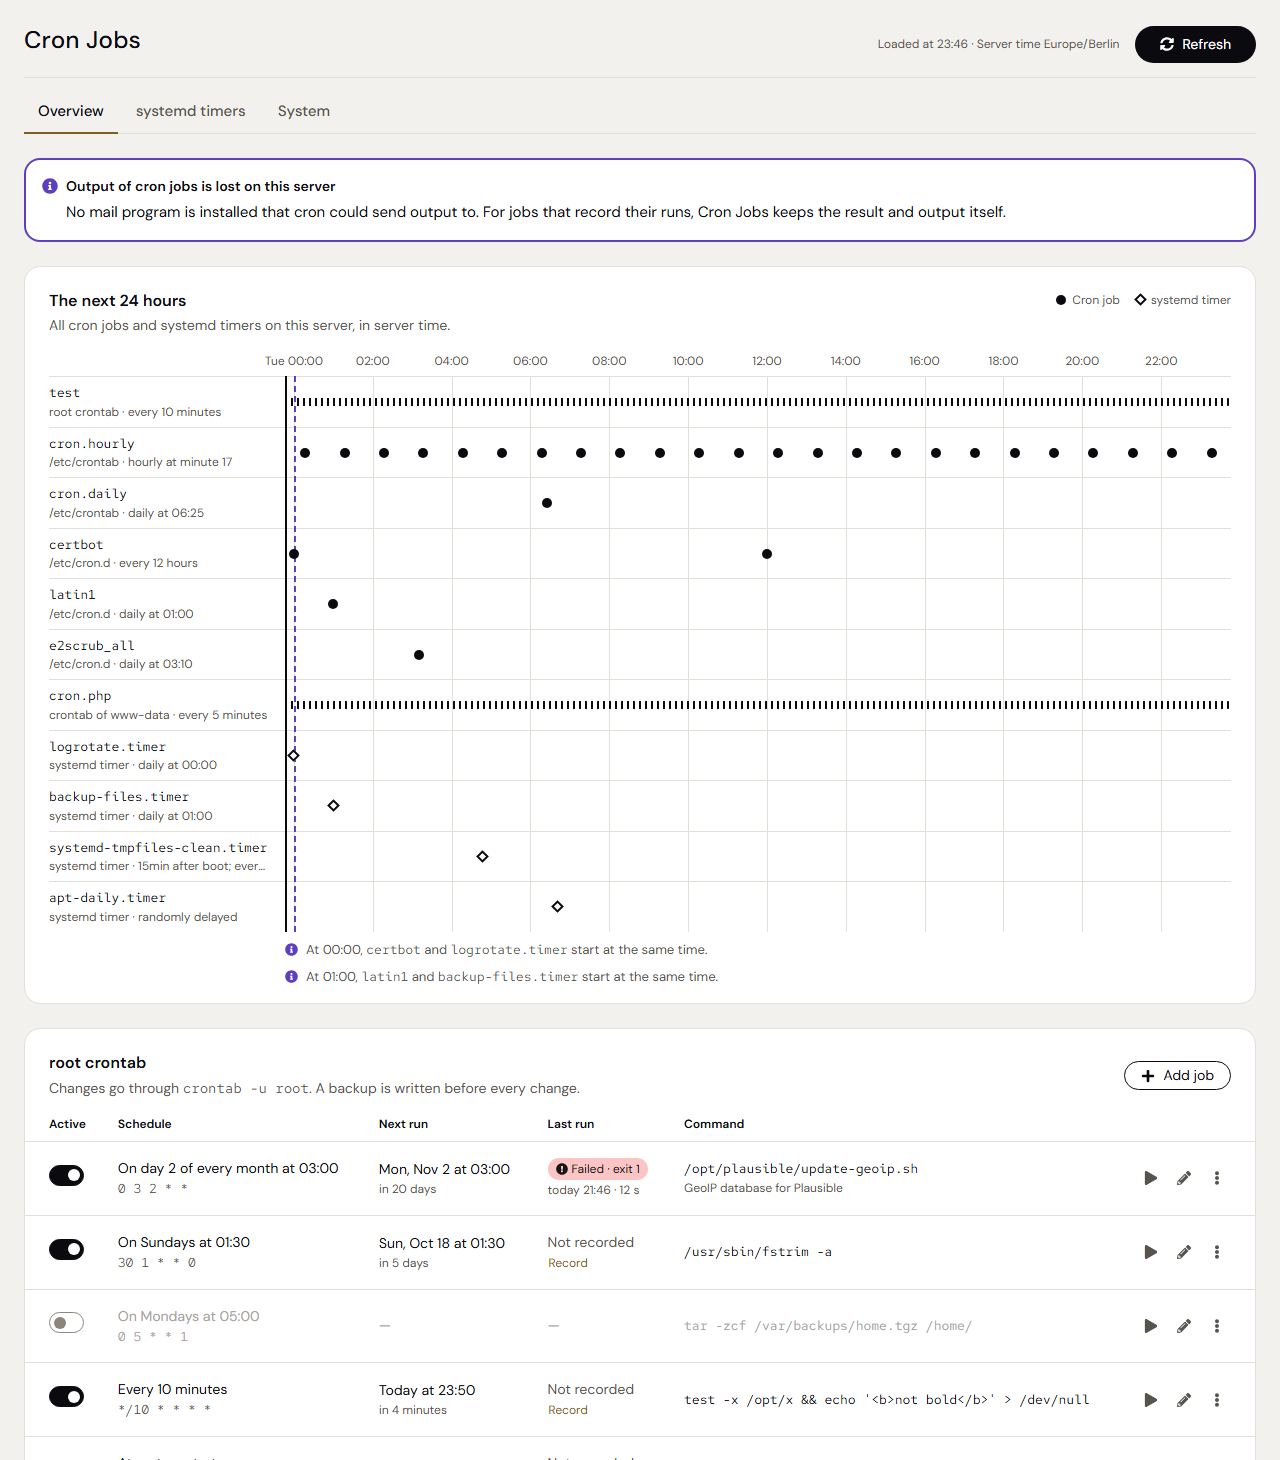
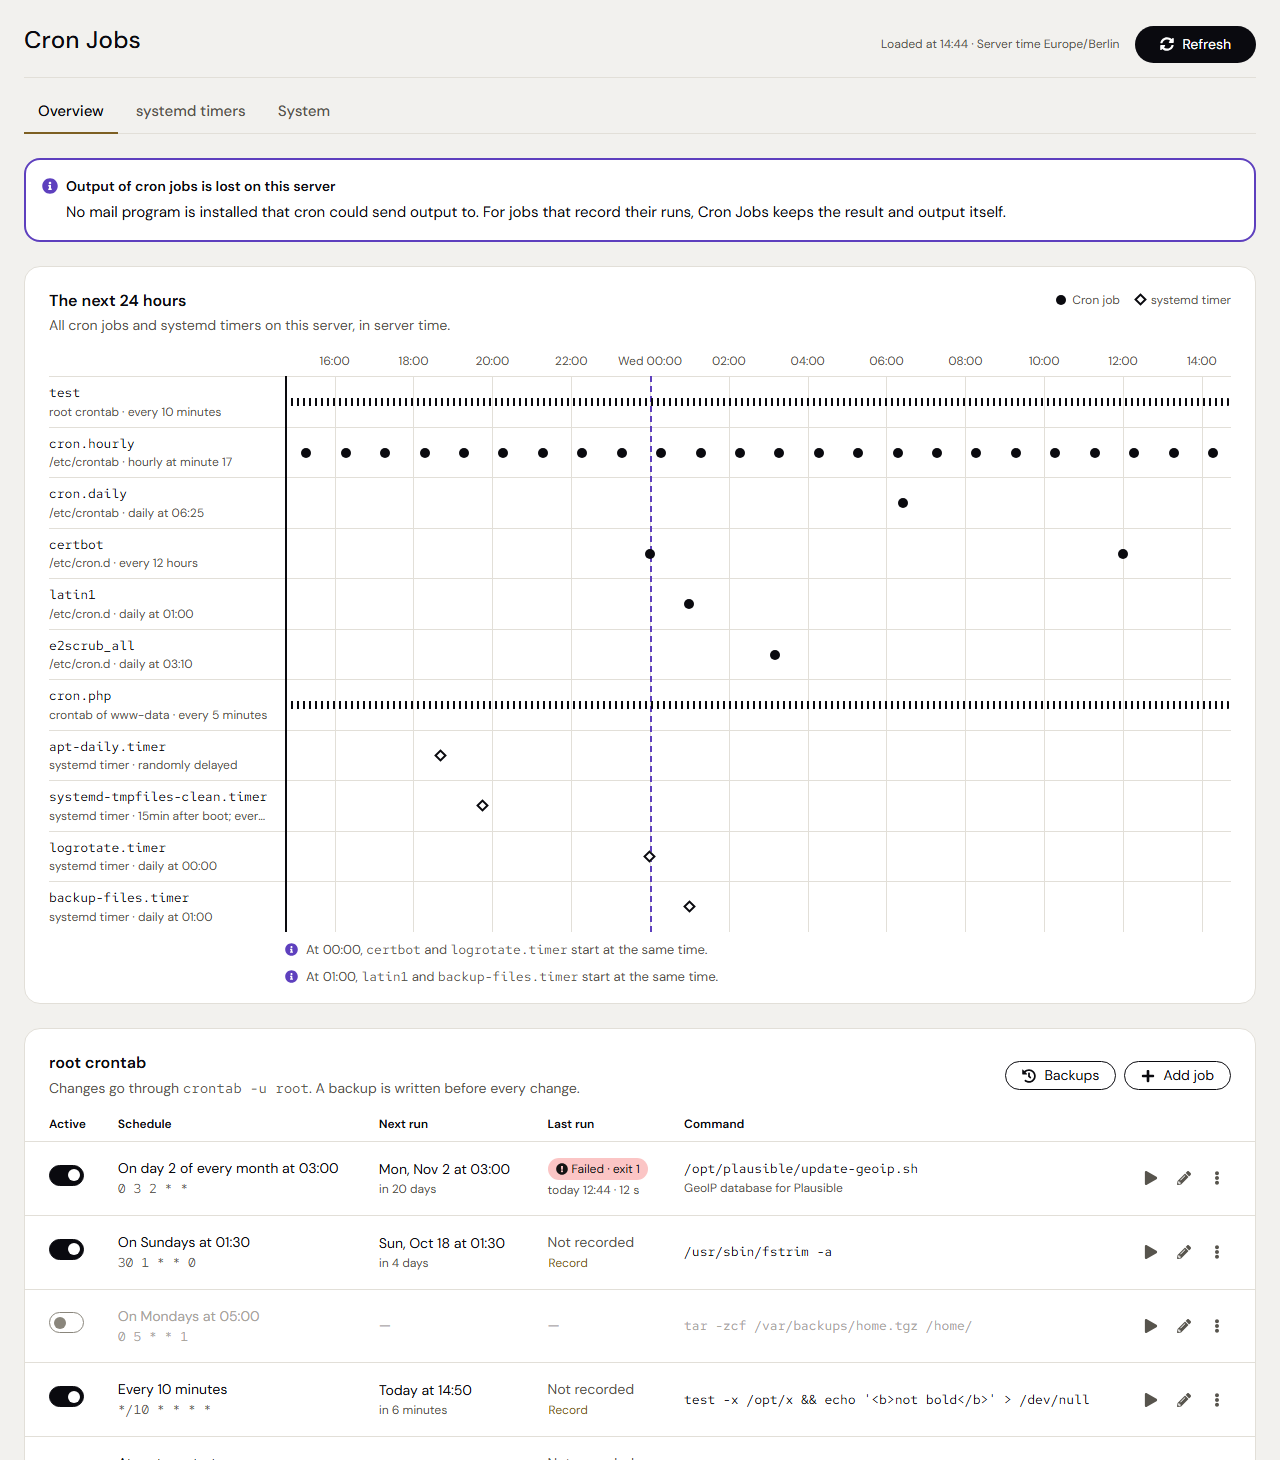
Prepare the release with backups you can use (#26)
Release 2.3.0: backups you can use (stage 2 of the roadmap).

- `const VERSION` is 2.3.0; `CHANGELOG.md` has its section (the backups;
the `ban` icon in the shared icons; the comment in `azentrius-theme.js`;
the steadier tests and `e2e` as a required check).
- `ROADMAP.md`: stage 2 marked as done in 2.3.0.
- README: the install example fetches 2.3.0; a picture of the backups
dialog next to the other three; the overview pictures show the new
Backups button (light and dark, taken with headless Chrome and Cockpit's
fonts, as before).

One fix found while taking the picture: with the real monospace font
(Red Hat Mono, which the browser tests replace with a stand-in), a long
crontab line widened the table in the backups dialog beyond the dialog
and cut off the restore button. The difference now takes no width of its
own in the table and scrolls inside. The browser tests check that the
list fits the dialog and the restore button is visible, at 1280 and at
375 pixels.

After the merge: Actions › release › Run workflow on `main` with version
2.3.0.

Changed region(s): [[0.0625, 0.4932, 0.2188, 0.6473], [0.8125, 0.7089, 0.8438, 0.7397], [0.3438, 0.9247, 0.375, 0.9555]]

diff --git a/src/app.css b/src/app.css
@@ -248,7 +248,10 @@ html { background: var(--bg-page); }
 /* backups: what restoring a version would change */
 .cron-bk-detail { padding-block: var(--space-xs) var(--space-sm); }
 .cron-bk-detail > p { margin: 0 0 var(--space-sm); }
+/* No width of its own in the table: long lines scroll inside instead of widening the dialog. */
 .cron-diff {
+  inline-size: 0;
+  min-inline-size: 100%;
   max-block-size: 320px;
   overflow: auto;
   padding-block: var(--space-xs);

diff --git a/src/app.js b/src/app.js
@@ -38,7 +38,7 @@ import { submitBack, submitConvert, toggleUnits, updateConvert } from "./app/con
 import { openBackups } from "./app/backups.js";
 import { initTabs } from "./app/tabs.js";
 
-const VERSION = "2.2.0";
+const VERSION = "2.3.0";
 
 /* ---------- start ---------- */
 

diff --git a/test/ui_test.py b/test/ui_test.py
@@ -640,11 +640,19 @@ with sync_playwright() as p:
     check(page.inner_text("[data-key='restore:root-20261012-090000.crontab']").strip() == "Diese Version wiederherstellen" and
           page.locator("#bk-dlg .az-btn--primary").count() == 1, "one restore button, the only primary one")
     shot(page, "de-light-backups", full=False)
+    # long lines scroll inside the difference; the list keeps the width of the dialog
+    fits = """() => {
+        const table = document.querySelector('#bk-body .cron-runs-table');
+        const button = document.querySelector('#bk-body [data-key^="restore:"]').getBoundingClientRect();
+        const modal = document.querySelector('#bk-dlg .az-modal').getBoundingClientRect();
+        return [document.documentElement.scrollWidth, table.scrollWidth, table.clientWidth, button.right <= modal.right - 16];
+    }"""
+    widths = page.evaluate(fits)
+    check(widths[1] <= widths[2] and widths[3], "the list fits the dialog, restore button visible: " + repr(widths))
     page.set_viewport_size({"width": 375, "height": 800})
     page.wait_for_timeout(150)
-    widths = page.evaluate("""() => [document.documentElement.scrollWidth, document.querySelector('#bk-dlg .az-modal').scrollWidth,
-                                      document.querySelector('#bk-dlg .az-modal').clientWidth]""")
-    check(widths[0] <= 375 and widths[1] <= widths[2], "phone: the dialog fits, long lines scroll inside: " + repr(widths))
+    widths = page.evaluate(fits)
+    check(widths[0] <= 375 and widths[1] <= widths[2] and widths[3], "phone: the dialog fits, long lines scroll inside: " + repr(widths))
     shot(page, "de-light-backups-375", full=False)
     page.set_viewport_size({"width": 1280, "height": 900})
     # the version like now: nothing to restore
@@ -1142,6 +1150,30 @@ with sync_playwright() as p:
     shot(page, "en-light-1280")
     row(page, 0).locator("[data-key^=more]").click()
     check("Stop recording" in page.inner_text("#row-menu"), "en menu")
+    page.keyboard.press("Escape")
+    # the backups dialog in English
+    root = root_text(page)
+    page.evaluate("""o => {
+        const now = Math.floor(Date.now() / 1000);
+        const p = n => '/var/lib/cockpit-cronjobs/backups/root-' + n + '.crontab';
+        window.__mock.backups = [
+            { path: p('20261012-063000'), content: o.older, mtime: now - 86400 },
+            { path: p('20261013-081500'), content: o.mid, mtime: now - 3 * 3600 },
+            { path: p('20261013-104200'), content: o.newer, mtime: now - 120 },
+        ];
+    }""", {"older": root + "15 4 * * * /usr/local/bin/old-report.sh\n",
+           "mid": root.replace("@reboot /usr/local/bin/warmup.sh\n", ""),
+           "newer": root.replace("30 1 * * 0 /usr/sbin/fstrim -a", "45 1 * * 0 /usr/sbin/fstrim -a")})
+    page.click("#backups")
+    wait_js(page, "document.querySelectorAll('#bk-body tbody tr').length === 3")
+    check(page.locator("#bk-body tbody tr td:nth-child(2)").all_inner_texts() ==
+          ["1 line removed, 1 line added", "1 line removed", "1 line added"], "en: what restoring changes")
+    page.click("[data-key='bk:root-20261013-104200.crontab']")
+    wait_js(page, "document.querySelector('.cron-diff')")
+    check("Restore this version" in page.inner_text("#bk-body") and "unchanged lines" in page.inner_text("#bk-body"), "en difference")
+    box = page.locator("#bk-dlg .az-modal").bounding_box()
+    page.screenshot(path=os.path.join(SHOTS, "en-backups.png"),
+                    clip={"x": box["x"] - 24, "y": box["y"] - 24, "width": box["width"] + 48, "height": box["height"] + 48})
     page.context.close()
 
     # ---------- language like Cockpit ----------

diff --git a/README.md b/README.md
@@ -35,9 +35,9 @@ and turns cron jobs into systemd timers.
 - English and German, following Cockpit's language. Light and dark, following Cockpit's style. Usable on
   a phone.
 
-| Run now | Recorded runs | Convert to systemd timer |
-|---|---|---|
-| ![Run now](docs/run-now.png) | ![Runs](docs/runs.png) | ![Convert](docs/convert.png) |
+| Run now | Recorded runs | Convert to systemd timer | Backups |
+|---|---|---|---|
+| ![Run now](docs/run-now.png) | ![Runs](docs/runs.png) | ![Convert](docs/convert.png) | ![Backups](docs/backups.png) |
 
 ## Requirements
 
@@ -56,11 +56,11 @@ the system crontabs and timers.
 From a [release](https://github.com/Azentrius/cockpit-cronjobs/releases) (replace the version):
 
 ```sh
-curl -LO https://github.com/Azentrius/cockpit-cronjobs/releases/download/v2.2.0/cockpit-cronjobs-2.2.0.tar.gz
-curl -LO https://github.com/Azentrius/cockpit-cronjobs/releases/download/v2.2.0/SHA256SUMS
+curl -LO https://github.com/Azentrius/cockpit-cronjobs/releases/download/v2.3.0/cockpit-cronjobs-2.3.0.tar.gz
+curl -LO https://github.com/Azentrius/cockpit-cronjobs/releases/download/v2.3.0/SHA256SUMS
 sha256sum --ignore-missing -c SHA256SUMS
-gh attestation verify cockpit-cronjobs-2.2.0.tar.gz --repo Azentrius/cockpit-cronjobs   # optional, needs gh
-sudo tar -xzf cockpit-cronjobs-2.2.0.tar.gz -C /usr/share/cockpit
+gh attestation verify cockpit-cronjobs-2.3.0.tar.gz --repo Azentrius/cockpit-cronjobs   # optional, needs gh
+sudo tar -xzf cockpit-cronjobs-2.3.0.tar.gz -C /usr/share/cockpit
 ```
 
 Or from the source:

diff --git a/CHANGELOG.md b/CHANGELOG.md
@@ -1,5 +1,19 @@
 # Changelog
 
+## 2.3.0 – 2026-10-13
+
+Backups you can use: compare any of the last ten versions of the root crontab with the current one, and
+restore it.
+
+- **Backups:** a new button in the root crontab card lists the backups, newest first, each with what
+  restoring it would change. Opening one shows the difference line by line, as `diff` shows it. Restoring
+  writes the backup byte for byte through the same locked step as every other change, after a backup of
+  the current version, so a restore can be undone the same way.
+- Shared design files: `icons.js` has the `ban` icon (for the other add-ons); `azentrius-theme.js`
+  changed only in a comment.
+- Tests: two tests that failed now and then without a change in the code wait for what they check; the
+  end-to-end test is a required check.
+
 ## 2.2.0 – 2026-10-12
 
 The shared Azentrius page frame, the polish of stage 1.1 of the roadmap, and a new license.

diff --git a/ROADMAP.md b/ROADMAP.md
@@ -1,6 +1,6 @@
 # Roadmap
 
-As of 2026-10-12. Each stage is cut so that it is useful on its own and brings its own tests. The
+As of 2026-10-13. Each stage is cut so that it is useful on its own and brings its own tests. The
 order is the recommendation; stages after 1.1 are proposals until they are decided.
 
 **Guardrails for every stage** (they keep applying):
@@ -44,7 +44,10 @@ Done in 2.2.0 (see [CHANGELOG](CHANGELOG.md)), together with the shared Azentriu
 
 ---
 
-## Stage 2 – Backups you can use
+## Stage 2 – Backups you can use ✅
+
+Done in 2.3.0 (see [CHANGELOG](CHANGELOG.md)): the list shows when each backup was saved and what restoring
+it would change; the end-to-end test compares the difference with `diff` and restores and restores back.
 
 **Goal:** the last ten versions of the root crontab are not only kept, but useful.
 
